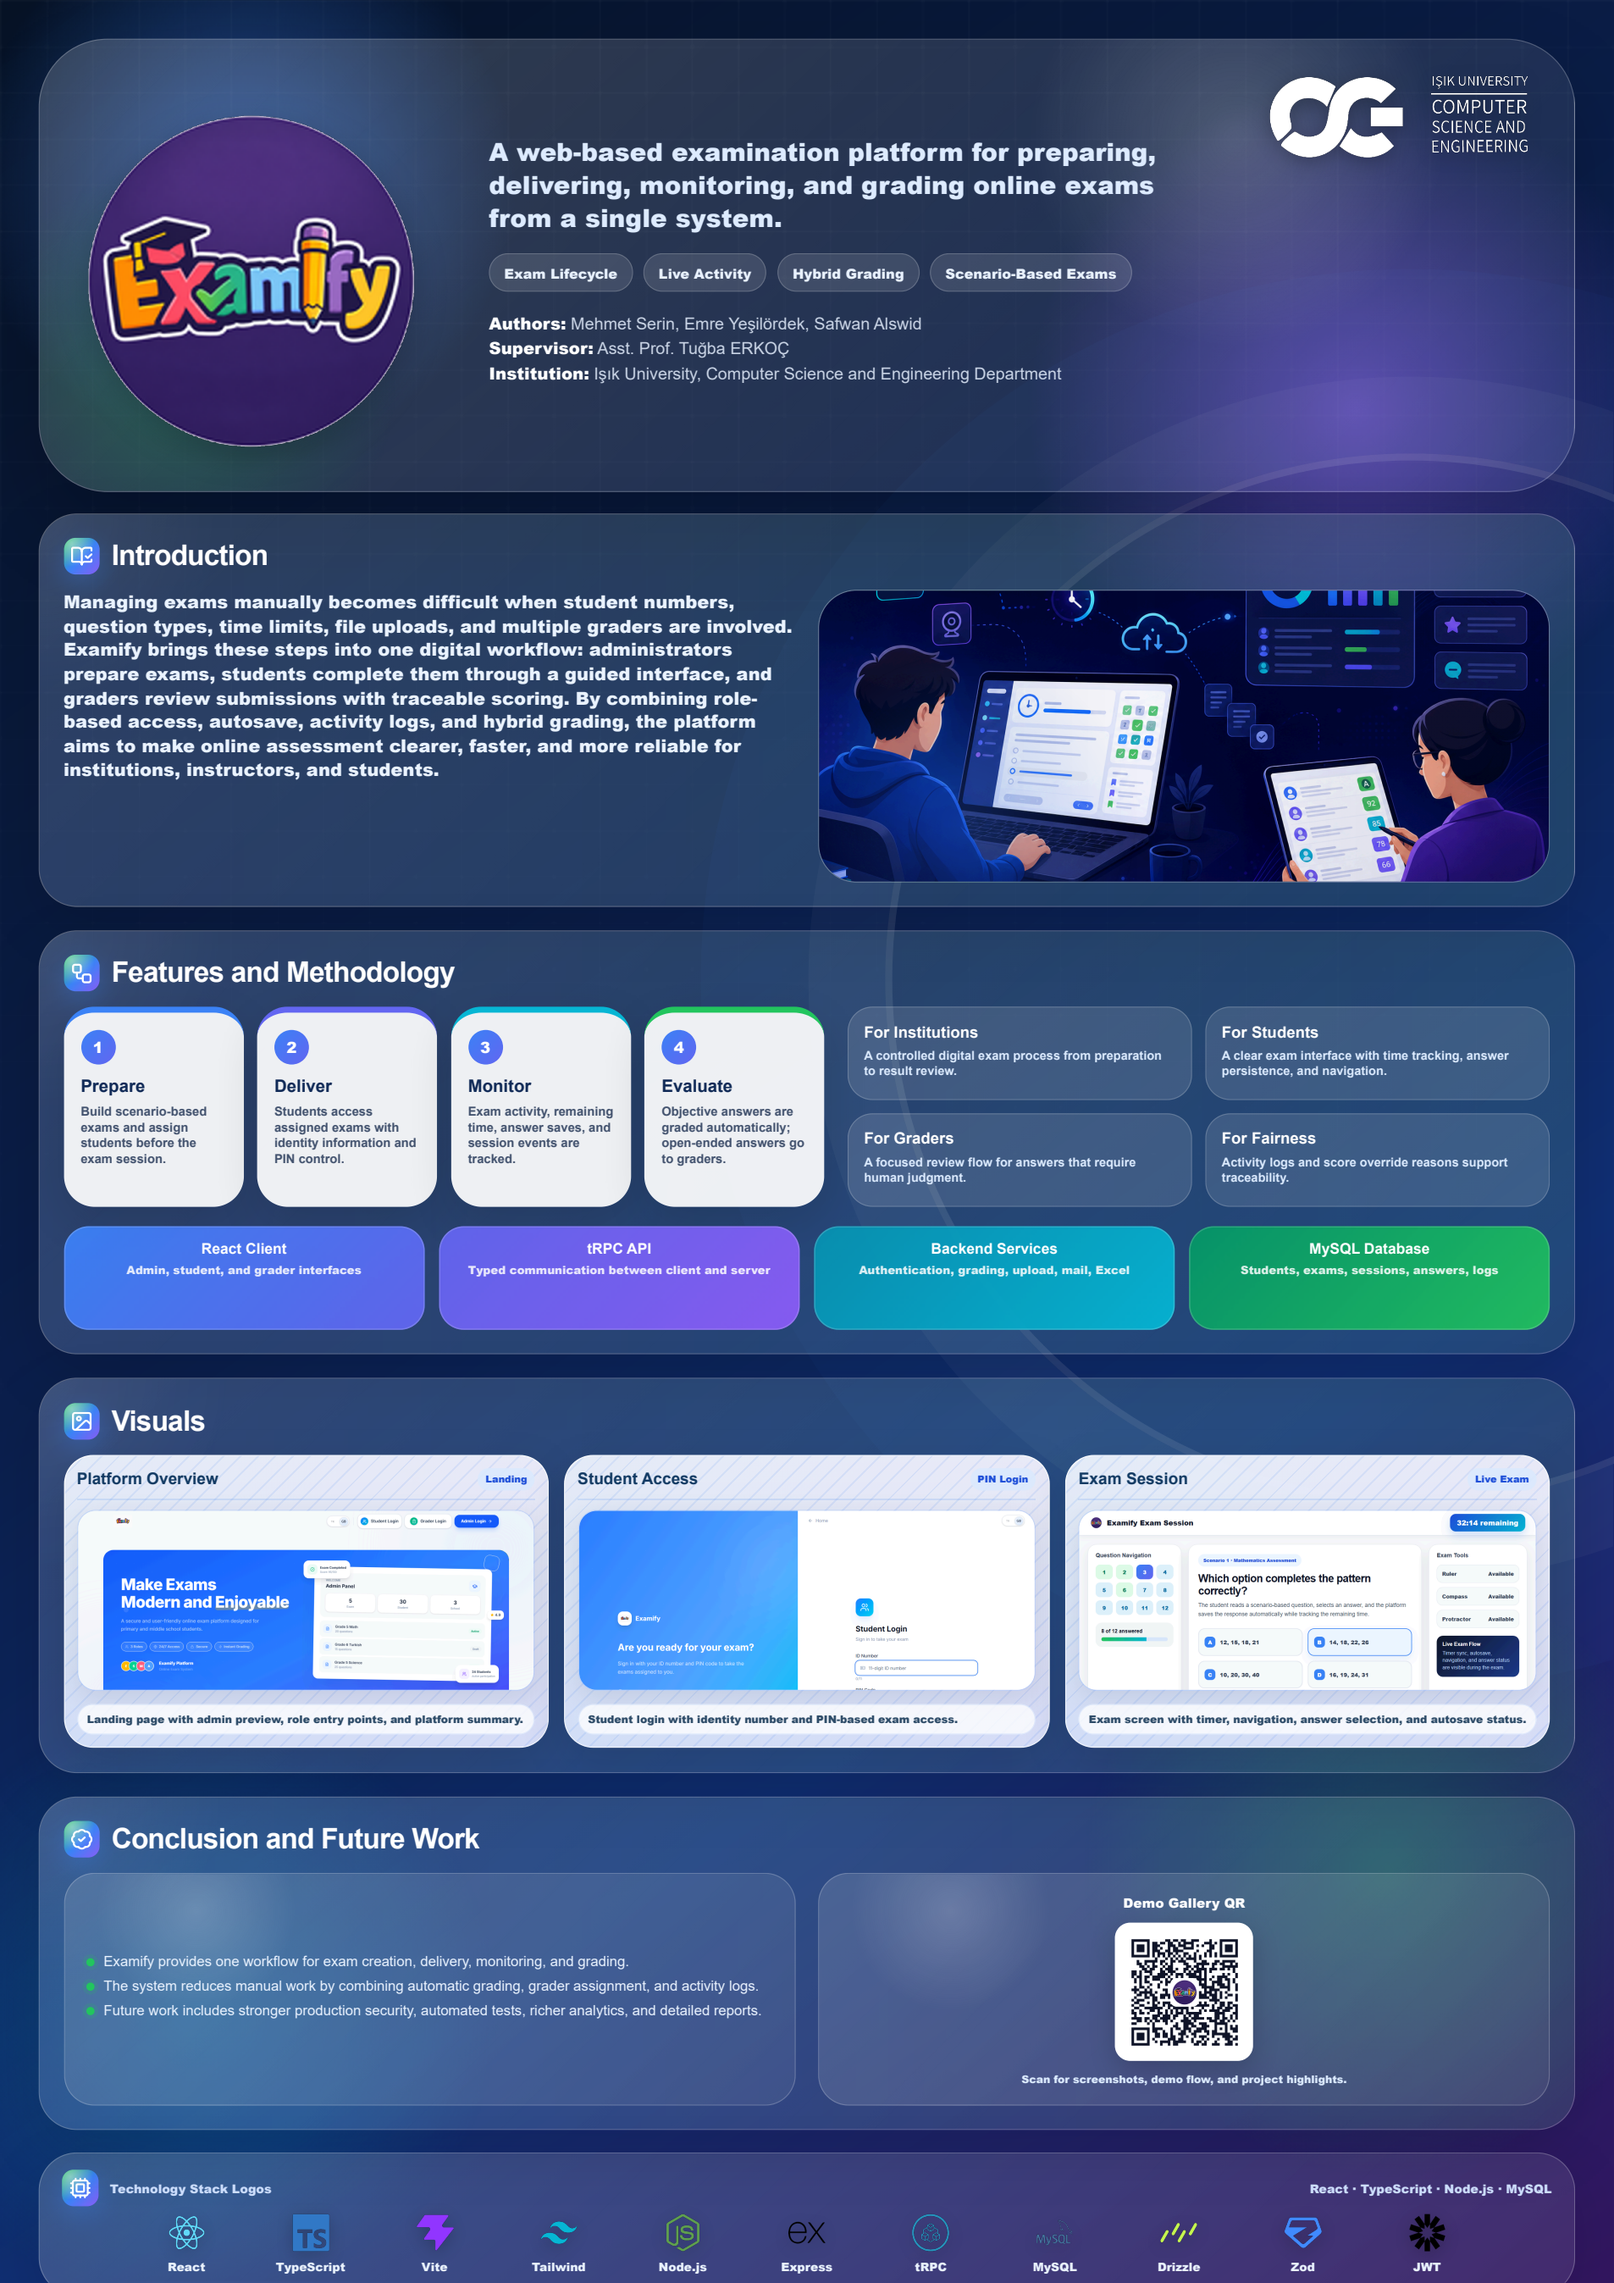
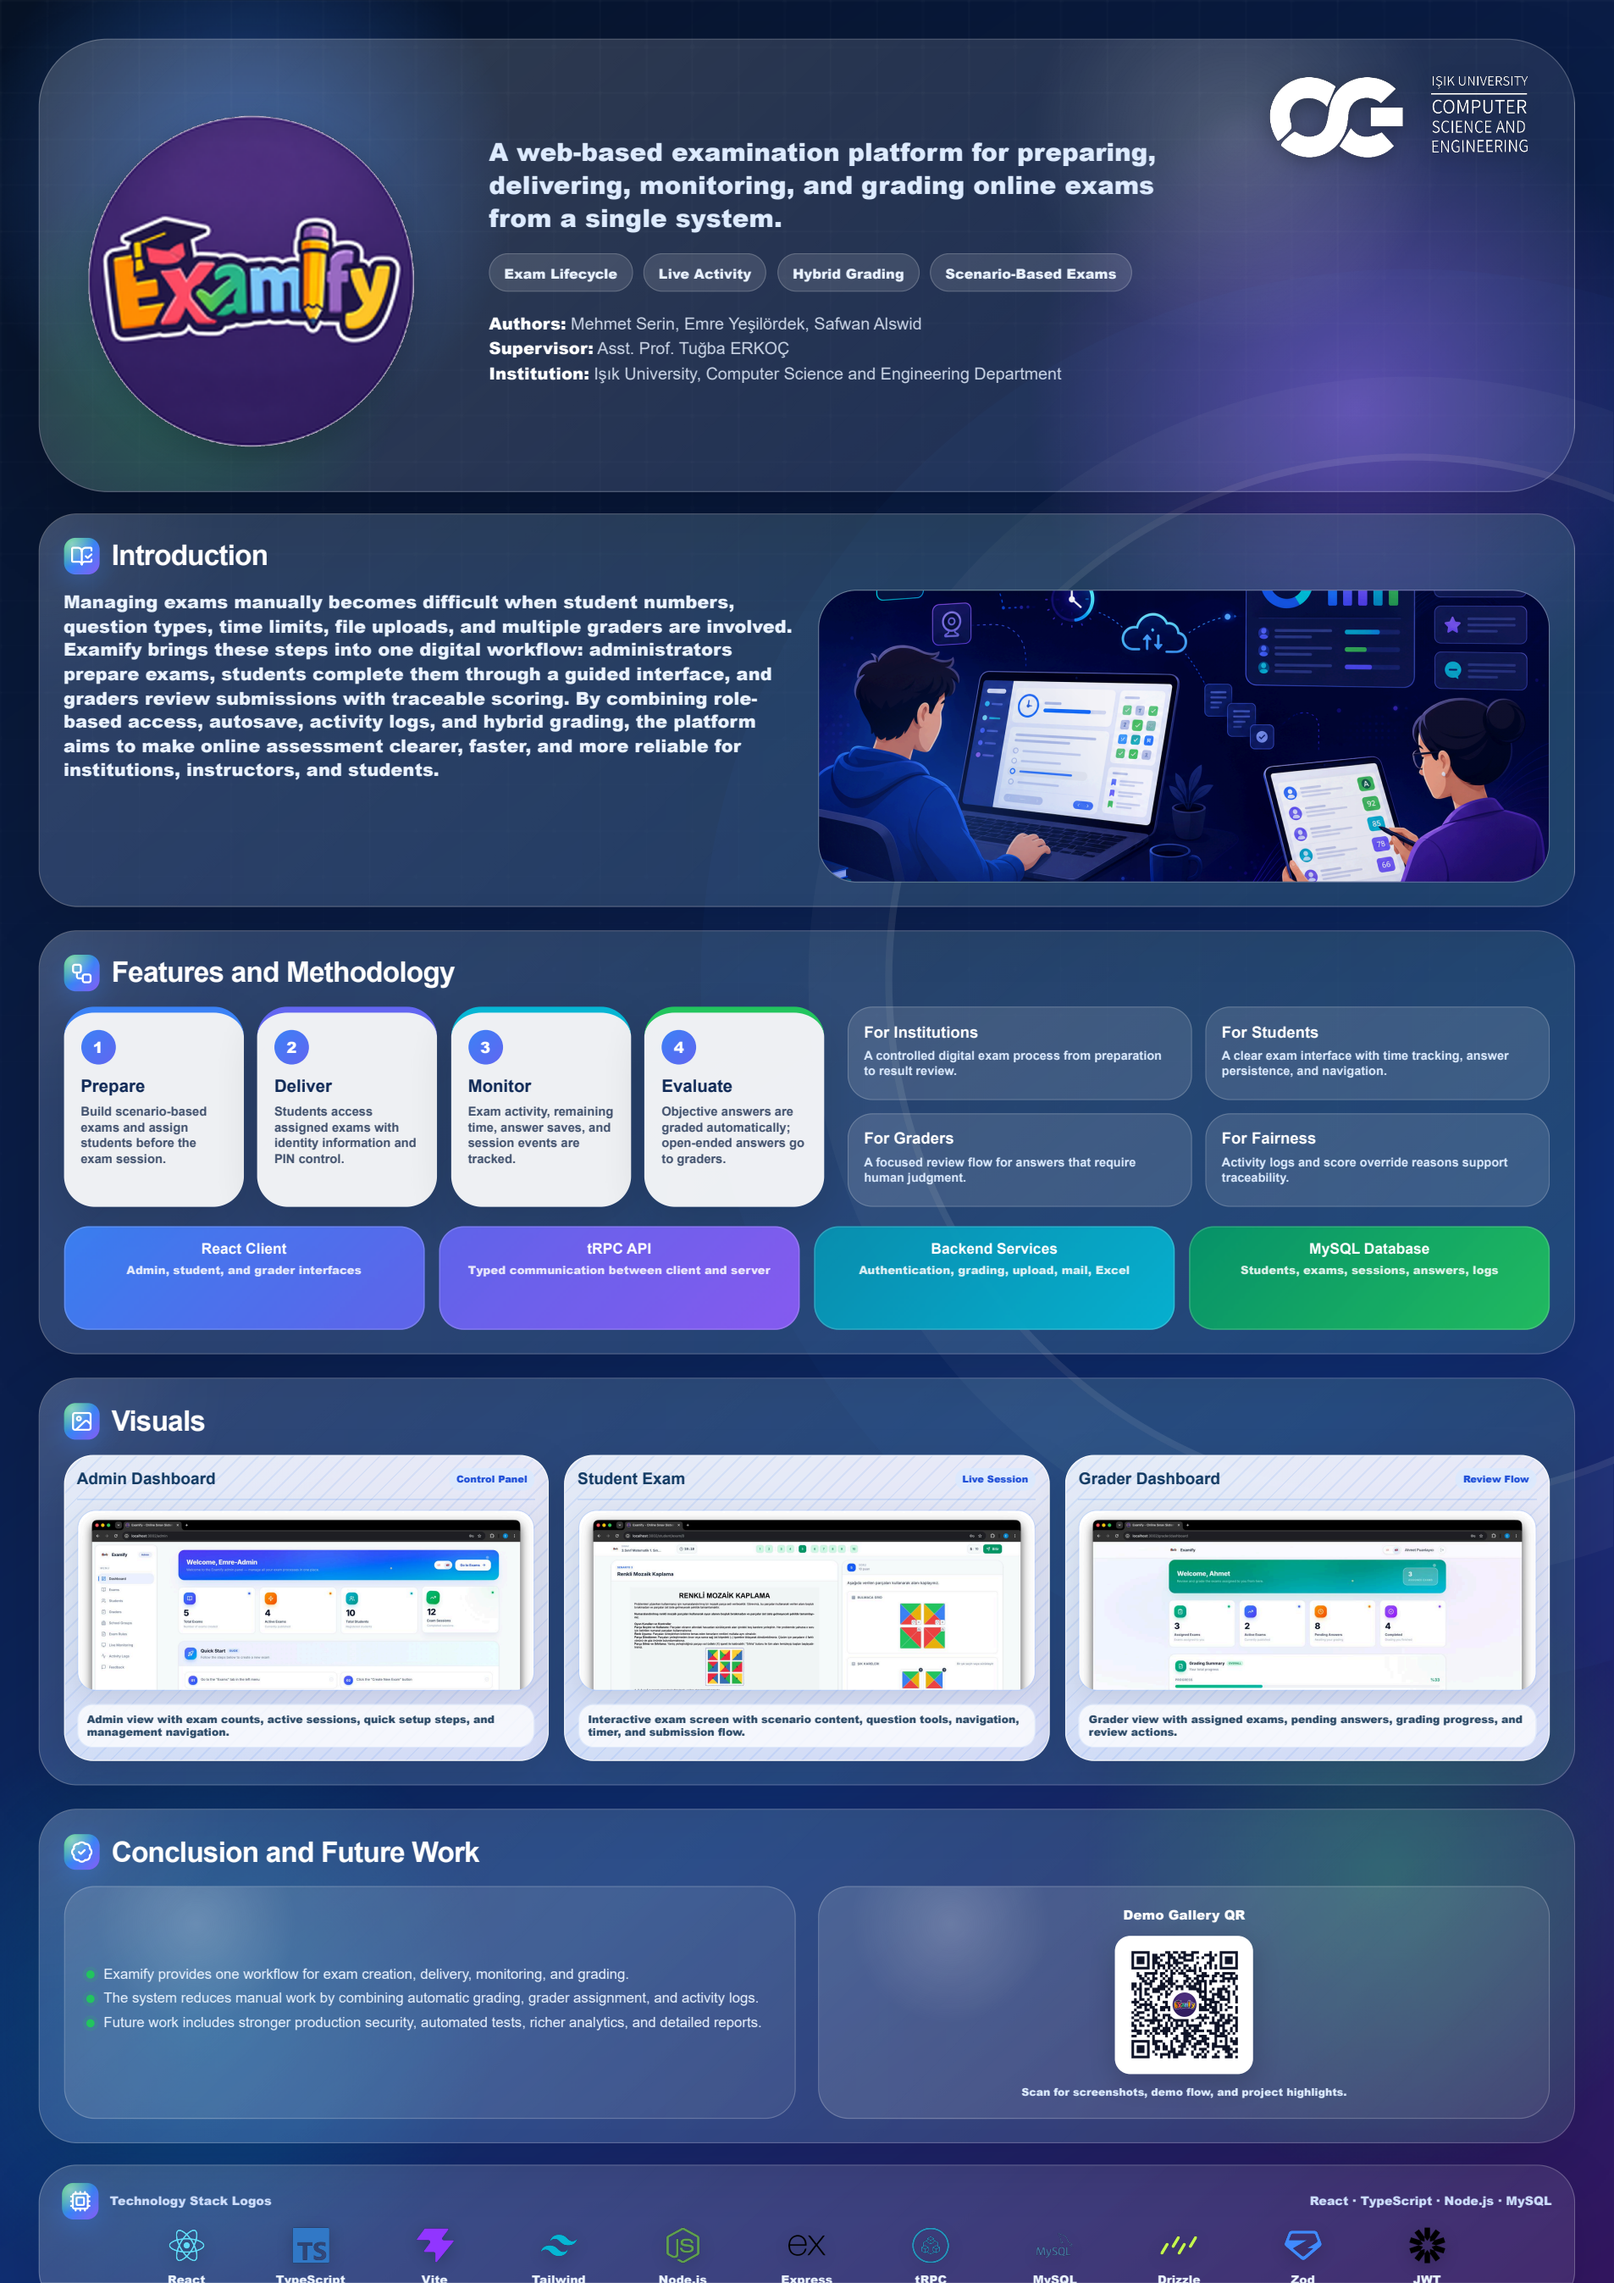
Demo galeri yeni ekran görüntüleriyle genişletildi

Changed region(s): [[0.0, 0.6234, 0.9906, 1.0], [0.6191, 0.9974, 0.681, 1.0]]

diff --git a/index.html b/index.html
@@ -15,7 +15,7 @@
         linear-gradient(145deg,#061225 0%,#0b1f4d 50%,#33155f 100%);
       font-family: Arial, Helvetica, sans-serif;
     }
-    main { max-width: 1200px; margin: 0 auto; padding: 38px 22px 64px; }
+    main { max-width: 1280px; margin: 0 auto; padding: 38px 22px 64px; }
     .hero {
       display: grid;
       grid-template-columns: 160px 1fr;
@@ -36,7 +36,7 @@
     .section-title { margin:34px 0 16px; font-size:30px; color:white; }
     .grid { display:grid; grid-template-columns:repeat(3,1fr); gap:20px; }
     .card { overflow:hidden; border:1px solid rgba(255,255,255,.18); border-radius:26px; background:rgba(255,255,255,.11); box-shadow:0 20px 48px rgba(0,0,0,.18); }
-    .card img { display:block; width:100%; height:220px; object-fit:cover; object-position:top center; background:white; }
+    .card img { display:block; width:100%; height:230px; object-fit:contain; object-position:top center; background:white; padding:8px; }
     .card.tall img { height:300px; object-fit:contain; background:rgba(255,255,255,.06); padding:14px; }
     .card div { padding:18px; }
     h2 { margin:0 0 8px; color:white; font-size:22px; }
@@ -55,7 +55,7 @@
       <div>
         <div class="eyebrow">Graduation Project Demo Gallery</div>
         <h1>Examify</h1>
-        <p>A quick visual walkthrough of the online exam platform: platform overview, student access, exam session, and the end-to-end assessment workflow.</p>
+        <p>A visual walkthrough of the online exam platform: admin setup, student exam delivery, live monitoring, activity logs, grader review, and feedback screens.</p>
         <div class="chips">
           <span class="chip">Online Exams</span>
           <span class="chip">Autosave</span>
@@ -67,10 +67,29 @@
 
     <h2 class="section-title">Application Screens</h2>
     <section class="grid">
-      <article class="card"><img src="screenshots/welcome-en.png" alt="Platform overview" /><div><h2>Platform Overview</h2><p>Role entry points, product summary, and admin preview.</p></div></article>
-      <article class="card"><img src="screenshots/student-login-en.png" alt="Student login" /><div><h2>Student Access</h2><p>PIN-based student login for assigned exams.</p></div></article>
-      <article class="card"><img src="screenshots/admin-login-en.png" alt="Admin login" /><div><h2>Admin Access</h2><p>Entry point for managing exams, students, and graders.</p></div></article>
-      <article class="card"><img src="screenshots/exam-screen-en.png" alt="Exam session" /><div><h2>Exam Session</h2><p>Timer, navigation, answer selection, exam tools, and autosave status.</p></div></article>
+      <article class="card"><img src="screenshots/new/01-platform-overview.jpg" alt="Examify platform overview" /><div><h2>Platform Overview</h2><p>Landing page with role entry points and platform summary.</p></div></article>
+      <article class="card"><img src="screenshots/new/02-admin-dashboard.jpg" alt="Examify admin dashboard" /><div><h2>Admin Dashboard</h2><p>Exam counts, active sessions, quick setup steps, and navigation.</p></div></article>
+      <article class="card"><img src="screenshots/new/03-exam-management.jpg" alt="Examify exam management" /><div><h2>Exam Management</h2><p>Exam list with status, duration, assignment, and action controls.</p></div></article>
+      <article class="card"><img src="screenshots/new/04-student-login.jpg" alt="Examify student login" /><div><h2>Student Login</h2><p>PIN-based student access before entering assigned exams.</p></div></article>
+      <article class="card"><img src="screenshots/new/05-grader-login.jpg" alt="Examify grader login" /><div><h2>Grader Login</h2><p>Dedicated login flow for evaluators and grading staff.</p></div></article>
+      <article class="card"><img src="screenshots/new/06-question-management.jpg" alt="Examify question management" /><div><h2>Question Management</h2><p>Scenario questions, answer choices, point values, and tools.</p></div></article>
+      <article class="card"><img src="screenshots/new/07-new-question-modal.jpg" alt="Examify new question modal" /><div><h2>New Question Modal</h2><p>Multiple question types, image upload, points, and available tools.</p></div></article>
+      <article class="card"><img src="screenshots/new/08-student-management.jpg" alt="Examify student management" /><div><h2>Student Management</h2><p>Student assignment, import/export, PINs, filters, and status tracking.</p></div></article>
+      <article class="card"><img src="screenshots/new/09-grader-management.jpg" alt="Examify grader management" /><div><h2>Grader Management</h2><p>Evaluator accounts, assigned exams, pending answers, and progress.</p></div></article>
+      <article class="card"><img src="screenshots/new/10-live-monitoring.jpg" alt="Examify live monitoring" /><div><h2>Live Monitoring</h2><p>Active exam cards for watching student progress in real time.</p></div></article>
+      <article class="card"><img src="screenshots/new/11-activity-logs.jpg" alt="Examify activity logs" /><div><h2>Activity Logs</h2><p>Traceable exam events, completion status, and last activity records.</p></div></article>
+      <article class="card"><img src="screenshots/new/12-feedback.jpg" alt="Examify feedback" /><div><h2>Feedback</h2><p>Student ratings and comments collected after exam sessions.</p></div></article>
+      <article class="card"><img src="screenshots/new/13-grader-dashboard.jpg" alt="Examify grader dashboard" /><div><h2>Grader Dashboard</h2><p>Assigned exams, pending answers, completed work, and grading progress.</p></div></article>
+      <article class="card"><img src="screenshots/new/14-grading-assignment.jpg" alt="Examify grading assignment" /><div><h2>Grading Assignment</h2><p>Student answer status, progress, and review actions for each submission.</p></div></article>
+      <article class="card"><img src="screenshots/new/15-manual-grading-review.jpg" alt="Examify manual grading review" /><div><h2>Manual Review</h2><p>Side-by-side student answer and answer key with manual scoring.</p></div></article>
+      <article class="card"><img src="screenshots/new/16-interactive-exam-mosaic.jpg" alt="Examify interactive mosaic exam" /><div><h2>Interactive Exam</h2><p>Scenario-based exam screen with interactive mosaic question tools.</p></div></article>
+      <article class="card"><img src="screenshots/new/17-drawing-question.jpg" alt="Examify drawing question" /><div><h2>Drawing Question</h2><p>Drawing interface with ruler, colors, eraser, and submission controls.</p></div></article>
+      <article class="card"><img src="screenshots/new/18-student-dashboard.jpg" alt="Examify student dashboard" /><div><h2>Student Dashboard</h2><p>Pending, in-progress, and completed exams in the student view.</p></div></article>
+      <article class="card"><img src="screenshots/new/19-live-monitoring-detail.jpg" alt="Examify live monitoring detail" /><div><h2>Monitoring Detail</h2><p>Student-level live exam progress with answered questions and time left.</p></div></article>
+    </section>
+
+    <h2 class="section-title">Project Artifacts</h2>
+    <section class="grid">
       <article class="card"><img src="assets/examify-hero-illustration.png" alt="Examify illustration" /><div><h2>Exam and Grading Flow</h2><p>Student takes the exam while submissions are routed for grading.</p></div></article>
       <article class="card tall"><img src="assets/poster-preview.png" alt="Poster preview" /><div><h2>Poster Preview</h2><p>The A2 project poster linked by the QR code.</p></div></article>
     </section>
